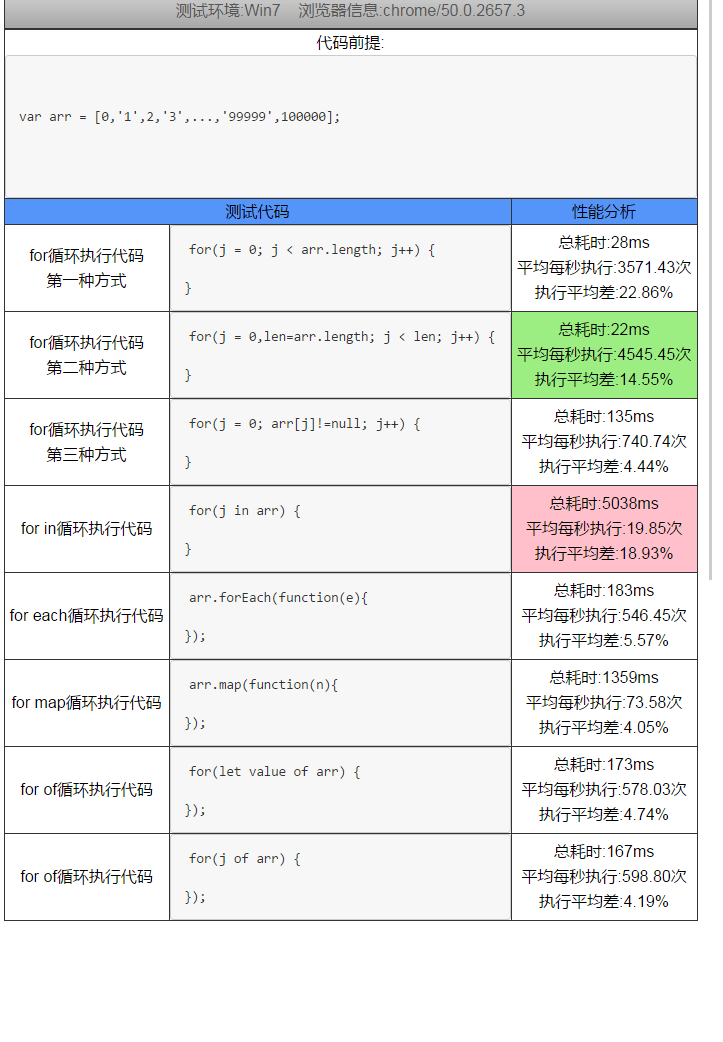
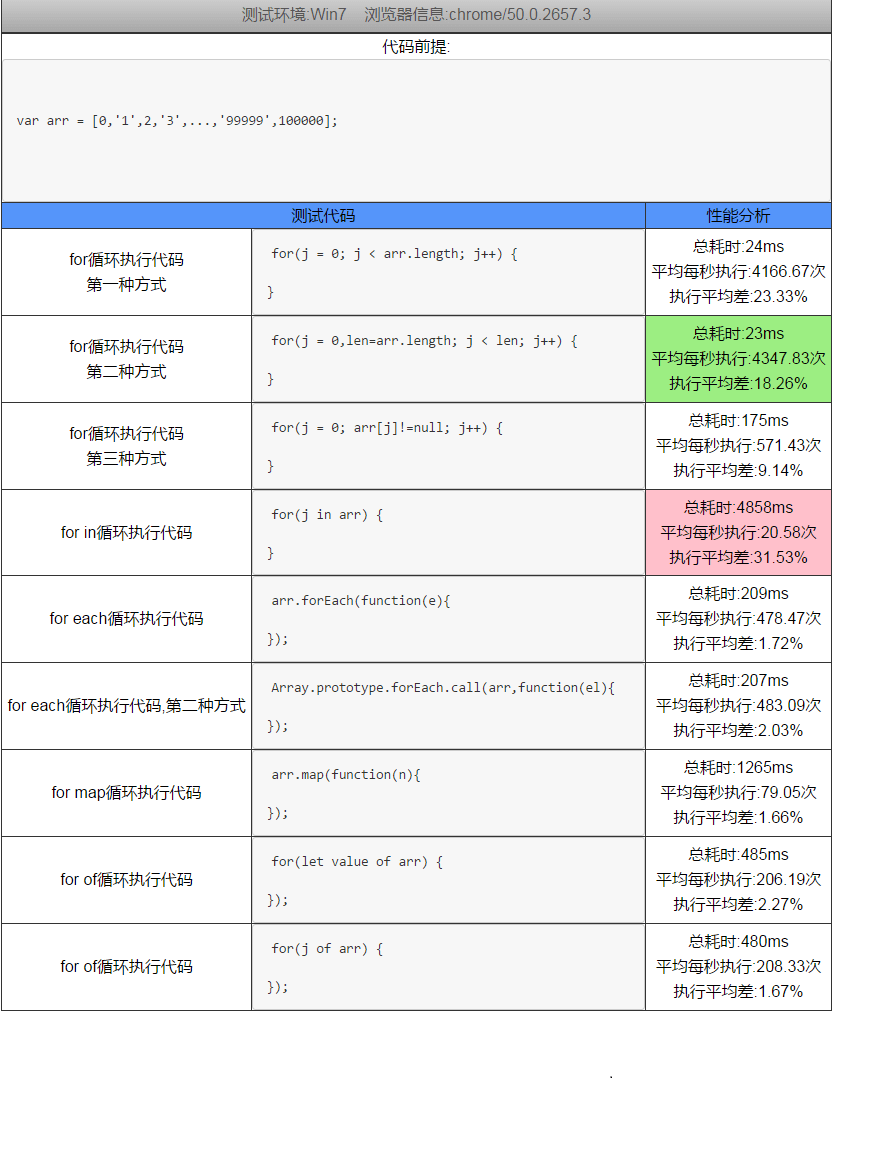
update

Changed region(s): [[0.0, 0.0, 1.0, 0.8906], [0.2434, 0.0, 0.7303, 0.0614], [0.2434, 0.0921, 0.4564, 0.1228]]

diff --git a/js/performanceAnalysis/demo_performanceAnalysis_jsarrayGoThrough.js b/js/performanceAnalysis/demo_performanceAnalysis_jsarrayGoThrough.js
@@ -262,11 +262,46 @@
 						};
 					},
 				},
+				//一个item
+				"tmp_loopCompare_foreach2": {
+					//是否需要es6才会显示
+					"needEs6": false,
+					"maxCount": 1000,
+					"supportType": "loopCompare",
+					//显示的domID,必须唯一
+					"domId": "tmp_loopCompare_foreach2",
+					'name': 'for each循环执行代码,第二种方式<br/>',
+					"codeHtml": 'Array.prototype.forEach.call(arr,function(el){  <br/>   <br/>});',
+					"runCode": function(perCount, a, b, tmp, arr) {
+						//防止干扰
+						var a = a,
+							b = b,
+							tmp = tmp,
+							arr = arr,
+							perCount = perCount,
+							i, j, len;
+						var begin = (new Date()).getTime();
+						for(i = 0; i < perCount; i++) {
+							Array.prototype.forEach.call(arr,function(el){
+								
+							});
+						}
+						var end = (new Date()).getTime();
+						return {
+							begin: begin,
+							end: end,
+							a: a,
+							b: b,
+							tmp: tmp,
+							arr: arr
+						};
+					},
+				},
 				//一个item,对于一些不支持map的,app.js里面有进行补全
 				"tmp_loopCompare_formap": {
 					//是否需要es6才会显示
 					"needEs6": false,
-					"maxCount": 500,
+					"maxCount": 1000,
 					"supportType": "loopCompare",
 					//显示的domID,必须唯一
 					"domId": "tmp_loopCompare_formap",
@@ -368,4 +403,5 @@
 		},
 	});
 	new performaceAnalysis();
+	
 })();

diff --git a/js/common/app.js b/js/common/app.js
@@ -6,6 +6,7 @@
 (function(exports) {
 	//补全map
 	if(!Array.prototype.map) {
+		console.log("拓展map");
 		Array.prototype.map = function(fn) {
 			var a = [];
 			for(var i = 0; i < this.length; i++) {
